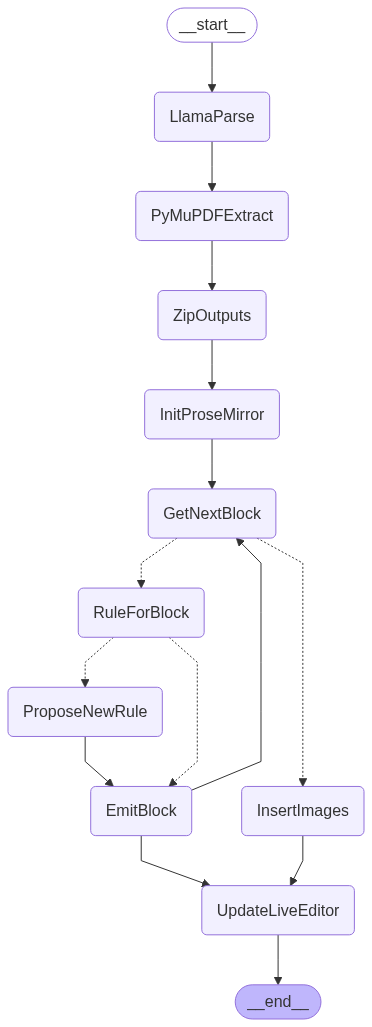
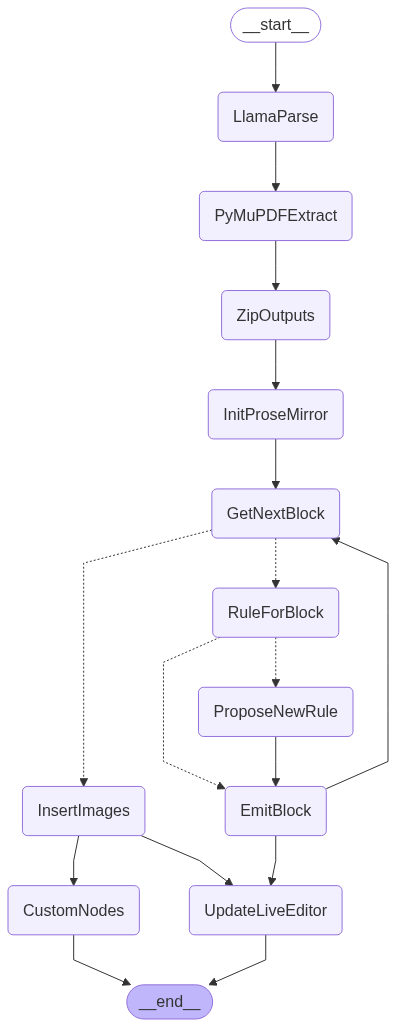
skeleton of custom nodes

diff --git a/pipeline.py b/pipeline.py
@@ -15,9 +15,14 @@ from etl.zip_llama_pymupdf import (
     match_pages,
 )
 from pipeline_state_helpers import draw_pipeline, resume_from_latest, save_output
+from post_processing.custom_extraction import (
+    CustomExtractionState,
+    build_custom_extraction_graph,
+)
+from post_processing.insert_images import insert_images
 from rule_registry.conversion_rules import ConversionRule, ConversionRuleRegistry
 from rule_registry.propose.propose_new_rule import propose_new_rule_node
-from tiptap.tiptap_models import BaseAttrs, DocNode, ImageNode, TiptapNode
+from tiptap.tiptap_models import BaseAttrs, DocNode, TiptapNode
 
 
 class PipelineState(BaseModel):
@@ -28,6 +33,7 @@ class PipelineState(BaseModel):
     zipped_pages: list[ZippedOutputsPage] = None
 
     prose_mirror_doc: DocNode = None
+    custom_nodes: list[TiptapNode] = []
 
     block_index: Optional[int] = -1
     page_index: Optional[int] = -1
@@ -248,103 +254,29 @@ def emit_block(state: PipelineState):
     }
 
 
-def insert_images(state: PipelineState):
+def custom_extraction_subgraph(state: PipelineState):
     """
-    After all blocks have been processed, iterate through the pages and insert images
-    in the correct positions without reordering the entire document.
+    Run the custom extraction subgraph to find and convert
+    special structures from the document into prosemirror nodes.
     """
-    print("🖼 Inserting images...")
-    content = list(state.prose_mirror_doc.content)
+    print("✨ Running custom extraction subgraph")
+    custom_extraction_graph = build_custom_extraction_graph()
+    initial_state = CustomExtractionState(pdf_path=state.pdf_path)
+    final_state = custom_extraction_graph.invoke(initial_state)
 
-    # First, get the src of all existing images in the document
-    existing_image_srcs = {
-        node.attrs.src
-        for node in content
-        if node.type == "image" and node.attrs and node.attrs.src
-    }
+    return {"custom_nodes": final_state["custom_nodes"]}
 
-    # Create lookups for block information
-    block_id_to_page_num = {
-        block.id: page.page
-        for page in state.zipped_pages
-        for block in page.unified_blocks
-    }
-    block_id_to_block = {
-        block.id: block for page in state.zipped_pages for block in page.unified_blocks
-    }
 
-    # Gather all images to be inserted that are not already present
-    images_to_insert = []
-    for page in state.zipped_pages:
-        for item in page.pymupdf_page.content:
-            if item.type == "image" and item.src not in existing_image_srcs:
-                images_to_insert.append(item)
-
-    # Sort images by page and then by vertical position to ensure correct insertion order
-    images_to_insert.sort(key=lambda img: (img.page, img.bbox[1]))
-
-    if not images_to_insert:
-        print("👍 No new images to insert.")
-        return {}  # Return early if there's nothing to do
-
-    for image_item in images_to_insert:
-        image_page = image_item.page
-        image_y0 = image_item.bbox[1]
-
-        # Find the correct insertion index in the content list
-        insertion_index = -1
-        for i, node in enumerate(content):
-            node_page = -1
-            # Check for existing images we may have just inserted
-            if node.type == "image" and node.attrs and node.attrs.title:
-                try:
-                    # e.g., "Page 1 image"
-                    node_page = int(node.attrs.title.split(" ")[1])
-                except (ValueError, IndexError):
-                    pass  # Not an image title we can parse
-            elif node.attrs and node.attrs.unified_block_id:
-                node_page = block_id_to_page_num.get(node.attrs.unified_block_id, -1)
-
-            if node_page == -1:
-                continue  # Cannot determine page for this node
-
-            # If node is on a later page, we've found our insertion spot
-            if node_page > image_page:
-                insertion_index = i
-                break
-
-            if node_page < image_page:
-                continue  # Image goes on a later page, so keep searching
-
-            # On the same page, compare vertical position
-            # We only use bboxes from fitz items for reliable positioning
-            node_y0 = float("inf")  # Default to bottom of page
-            if node.attrs and node.attrs.unified_block_id:
-                block = block_id_to_block.get(node.attrs.unified_block_id)
-                if block and block.fitz_items:
-                    node_y0 = block.fitz_items[0].bbox[1]
-
-            if image_y0 < node_y0:
-                insertion_index = i
-                break
-
-        image_node = ImageNode(
-            attrs=ImageNode.Attrs(
-                src=image_item.src,
-                alt="An image from the PDF",
-                title=f"Page {image_item.page} image",
-            )
-        )
-
-        if insertion_index != -1:
-            content.insert(insertion_index, image_node)
-        else:
-            # If no spot was found, it belongs at the end
-            content.append(image_node)
-
+def insert_custom_nodes(state: PipelineState):
+    """
+    Insert the custom nodes into the document.
+    For now, just add them to the end.
+    """
+    print("✍ Inserting custom nodes into document")
+    updated_content = state.prose_mirror_doc.content + state.custom_nodes
     return {
         "prose_mirror_doc": state.prose_mirror_doc.model_copy(
-            update={"content": content}
+            update={"content": updated_content}
         )
     }
 
@@ -378,6 +310,7 @@ def build_pipeline():
     builder.add_node("ProposeNewRule", propose_new_rule_node)
     builder.add_node("EmitBlock", emit_block)
     builder.add_node("InsertImages", insert_images)
+    builder.add_node("CustomNodes", custom_extraction_subgraph)
 
     builder.add_edge("InitProseMirror", "GetNextBlock")
 
@@ -396,7 +329,8 @@ def build_pipeline():
     builder.add_edge("EmitBlock", "UpdateLiveEditor")
     builder.add_edge("EmitBlock", "GetNextBlock")
     builder.add_edge("InsertImages", "UpdateLiveEditor")
-    builder.add_edge("InsertImages", END)
+    builder.add_edge("InsertImages", "CustomNodes")
+    builder.add_edge("CustomNodes", END)
 
     return builder.compile()
 

diff --git a/post_processing/insert_images.py b/post_processing/insert_images.py
@@ -1,0 +1,102 @@
+from tiptap.tiptap_models import ImageNode
+
+
+def insert_images(state):
+    """
+    After all blocks have been processed, iterate through the pages and insert images
+    in the correct positions without reordering the entire document.
+    """
+    print("🖼 Inserting images...")
+    content = list(state.prose_mirror_doc.content)
+
+    # First, get the src of all existing images in the document
+    existing_image_srcs = {
+        node.attrs.src
+        for node in content
+        if node.type == "image" and node.attrs and node.attrs.src
+    }
+
+    # Create lookups for block information
+    block_id_to_page_num = {
+        block.id: page.page
+        for page in state.zipped_pages
+        for block in page.unified_blocks
+    }
+    block_id_to_block = {
+        block.id: block for page in state.zipped_pages for block in page.unified_blocks
+    }
+
+    # Gather all images to be inserted that are not already present
+    images_to_insert = []
+    for page in state.zipped_pages:
+        for item in page.pymupdf_page.content:
+            if item.type == "image" and item.src not in existing_image_srcs:
+                images_to_insert.append(item)
+
+    # Sort images by page and then by vertical position to ensure correct insertion order
+    images_to_insert.sort(key=lambda img: (img.page, img.bbox[1]))
+
+    if not images_to_insert:
+        print("👍 No new images to insert.")
+        return {}  # Return early if there's nothing to do
+
+    for image_item in images_to_insert:
+        image_page = image_item.page
+        image_y0 = image_item.bbox[1]
+
+        # Find the correct insertion index in the content list
+        insertion_index = -1
+        for i, node in enumerate(content):
+            node_page = -1
+            # Check for existing images we may have just inserted
+            if node.type == "image" and node.attrs and node.attrs.title:
+                try:
+                    # e.g., "Page 1 image"
+                    node_page = int(node.attrs.title.split(" ")[1])
+                except (ValueError, IndexError):
+                    pass  # Not an image title we can parse
+            elif node.attrs and node.attrs.unified_block_id:
+                node_page = block_id_to_page_num.get(node.attrs.unified_block_id, -1)
+
+            if node_page == -1:
+                continue  # Cannot determine page for this node
+
+            # If node is on a later page, we've found our insertion spot
+            if node_page > image_page:
+                insertion_index = i
+                break
+
+            if node_page < image_page:
+                continue  # Image goes on a later page, so keep searching
+
+            # On the same page, compare vertical position
+            # We only use bboxes from fitz items for reliable positioning
+            node_y0 = float("inf")  # Default to bottom of page
+            if node.attrs and node.attrs.unified_block_id:
+                block = block_id_to_block.get(node.attrs.unified_block_id)
+                if block and block.fitz_items:
+                    node_y0 = block.fitz_items[0].bbox[1]
+
+            if image_y0 < node_y0:
+                insertion_index = i
+                break
+
+        image_node = ImageNode(
+            attrs=ImageNode.Attrs(
+                src=image_item.src,
+                alt="An image from the PDF",
+                title=f"Page {image_item.page} image",
+            )
+        )
+
+        if insertion_index != -1:
+            content.insert(insertion_index, image_node)
+        else:
+            # If no spot was found, it belongs at the end
+            content.append(image_node)
+
+    return {
+        "prose_mirror_doc": state.prose_mirror_doc.model_copy(
+            update={"content": content}
+        )
+    }

diff --git a/post_processing/custom_extraction.py b/post_processing/custom_extraction.py
@@ -1,0 +1,37 @@
+from typing import List
+
+from dotenv import load_dotenv
+from langgraph.graph import END, StateGraph
+from pydantic import BaseModel
+
+from post_processing.llama_extract import ExtractedData, extract
+from tiptap.tiptap_models import TiptapNode
+
+load_dotenv()
+
+
+class CustomExtractionState(BaseModel):
+    pdf_path: str
+    extracted_data: ExtractedData = None
+    custom_nodes: List[TiptapNode] = []
+
+
+def convert_to_prosemirror(state: CustomExtractionState):
+    print(" converting custom structures to prosemirror nodes")
+    nodes = []
+
+    return {"custom_nodes": nodes}
+
+
+def extract_custom(state: CustomExtractionState):
+    return {"extracted_data": extract(state.pdf_path)}
+
+
+def build_custom_extraction_graph():
+    workflow = StateGraph(CustomExtractionState)
+    workflow.add_node("extract", extract_custom)
+    workflow.add_node("convert", convert_to_prosemirror)
+    workflow.set_entry_point("extract")
+    workflow.add_edge("extract", "convert")
+    workflow.add_edge("convert", END)
+    return workflow.compile()
